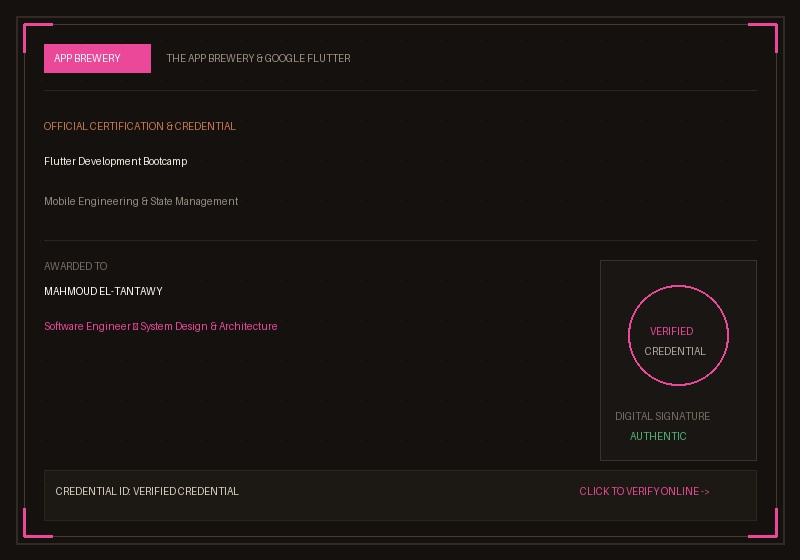
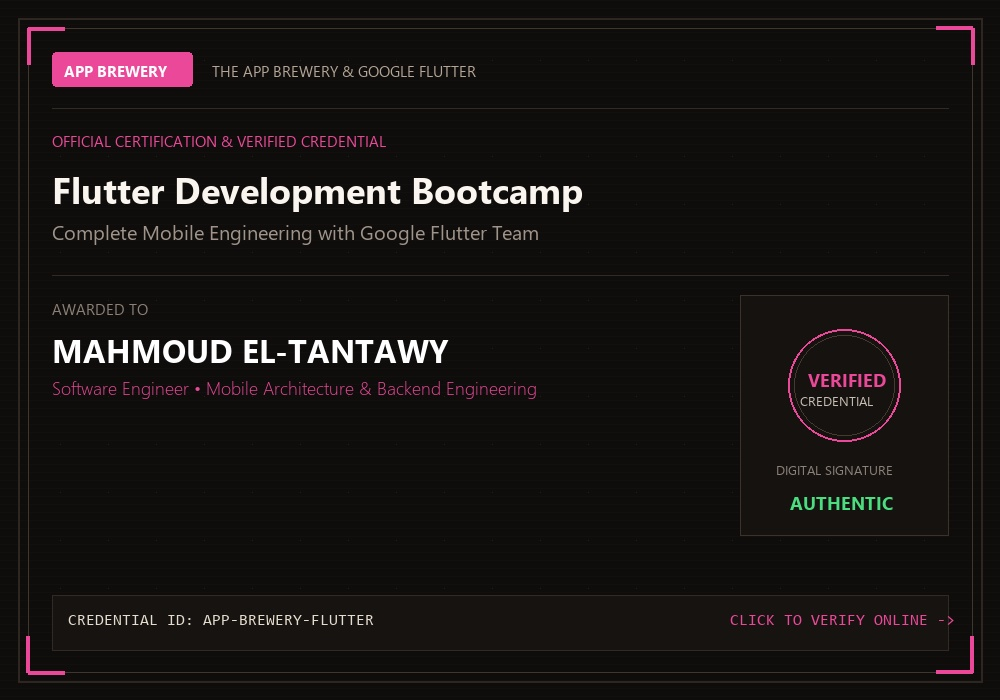
Update certificates and add high-fidelity project mockups

diff --git a/src/data/site.js b/src/data/site.js
@@ -340,8 +340,8 @@ export const SITE = {
         "Solution: Implemented centralized JWT token introspection with Keycloak IAM, dynamic proxy URI rewrites, CORS enforcement, and automatic X-Consumer tenant header injection.",
         "Impact: Eliminated duplicate auth logic across downstream services, unified security governance, and enabled zero-downtime routing modifications.",
       ],
-      image: "neuralmath.jpeg",
-      imageDetail: "neuralmath1.jpeg",
+      image: "proj_qiyasi.jpg",
+      imageDetail: "proj_qiyasi.jpg",
     },
     {
       id: "saaed-pay",
@@ -358,8 +358,8 @@ export const SITE = {
         "Solution: Utilized the Adapter Pattern to wrap payment providers behind a normalized PaymentRepository interface, with asynchronous server webhook reconciliation.",
         "Impact: Delivered reliable contactless tap-to-phone transactions, zero client state conflicts, and modular payment channel extensibility.",
       ],
-      image: "servise.jpeg",
-      imageDetail: "servise1.jpeg",
+      image: "proj_saaed_pay.jpg",
+      imageDetail: "proj_saaed_pay.jpg",
     },
     {
       id: "ezee-erp",
@@ -376,8 +376,8 @@ export const SITE = {
         "Solution: Built an offline-first data sync engine using local SQLite storage and monotonic sequence queues with automatic background reconciliation.",
         "Impact: Guaranteed 100% operational uptime during network failures and zero transaction loss across multi-branch enterprise deployments.",
       ],
-      image: "model1.jpeg",
-      imageDetail: "model1.jpeg",
+      image: "proj_ezee_erp.jpg",
+      imageDetail: "proj_ezee_erp.jpg",
     },
     {
       id: "ecommerce-multi-tenant",
@@ -394,8 +394,8 @@ export const SITE = {
         "Solution: Built a modular runtime configuration injector resolving vendor schemas, payment configs, and UI tokens dynamically via Clean Architecture domain abstractions.",
         "Impact: Enabled rapid onboarding of new enterprise vendors within hours without writing new application codebases.",
       ],
-      image: "website.jpeg",
-      imageDetail: "website1.jpeg",
+      image: "proj_ecommerce.jpg",
+      imageDetail: "proj_ecommerce.jpg",
     },
     {
       id: "ezee-restaurant-pos",
@@ -412,8 +412,8 @@ export const SITE = {
         "Solution: Bypassed HTTP proxies for local floor operations, executing optimized parameterized queries directly over local TCP sockets.",
         "Impact: Eliminated order dispatch latency, achieving sub-10ms response times and real-time floor synchronization.",
       ],
-      image: "dip.jpeg",
-      imageDetail: "dip1.jpeg",
+      image: "proj_ezee_pos.jpg",
+      imageDetail: "proj_ezee_pos.jpg",
     },
     {
       id: "ezee-hr",
@@ -430,8 +430,8 @@ export const SITE = {
         "Solution: Engineered encrypted time-bound QR payloads for physical check-in validation, stored session tokens in secure keystores, and applied dynamic RBAC UI gating.",
         "Impact: Prevented attendance fraud and streamlined leave approval cycles across distributed enterprise teams.",
       ],
-      image: "servise1.jpeg",
-      imageDetail: "servise.jpeg",
+      image: "proj_ezee_hr.jpg",
+      imageDetail: "proj_ezee_hr.jpg",
     },
     {
       id: "alfakhra",
@@ -448,8 +448,8 @@ export const SITE = {
         "Solution: Unified both platforms into independent domain modules, isolating business calculation geometry from UI rendering.",
         "Impact: Reduced ongoing maintenance costs by 50% while delivering consistent 60fps UI performance across all devices.",
       ],
-      image: "neuralmath1.jpeg",
-      imageDetail: "neuralmath.jpeg",
+      image: "proj_alfakhra.jpg",
+      imageDetail: "proj_alfakhra.jpg",
     },
     {
       id: "taqeem-qa",
@@ -466,8 +466,8 @@ export const SITE = {
         "Solution: Built automated test suites validating payload schemas, authorization boundaries, rate limiting headers, and multi-tenant data isolation.",
         "Impact: Ensured 100% adherence to OpenAPI specifications and prevented security boundary regressions.",
       ],
-      image: "website1.jpeg",
-      imageDetail: "website.jpeg",
+      image: "proj_taqeem_qa.jpg",
+      imageDetail: "proj_taqeem_qa.jpg",
     },
   ],
 };

diff --git a/generate_cert_images.py b/generate_cert_images.py
@@ -3,135 +3,174 @@ from PIL import Image, ImageDraw, ImageFont
 
 os.makedirs('public/imgs/certficate', exist_ok=True)
 
+# Try loading system fonts
+font_dir = "C:/Windows/Fonts"
+def get_font(name, size):
+    try:
+        return ImageFont.truetype(os.path.join(font_dir, name), size)
+    except Exception:
+        return ImageFont.load_default()
+
+font_title = get_font("segoeuib.ttf", 36)
+font_subtitle = get_font("segoeui.ttf", 20)
+font_name = get_font("segoeuib.ttf", 32)
+font_role = get_font("segoeuil.ttf", 18)
+font_badge = get_font("segoeuib.ttf", 15)
+font_small = get_font("segoeui.ttf", 15)
+font_code = get_font("consola.ttf", 16)
+font_stamp_bold = get_font("segoeuib.ttf", 18)
+font_stamp_sub = get_font("segoeui.ttf", 13)
+
 certs = [
     {
         "filename": "public/imgs/certficate/cert_flutter_clean_arch.jpg",
         "title": "Flutter Clean Architecture",
-        "subtitle": "Domain-Driven Design & State Segregation",
-        "issuer": "UDEMY CERTIFICATE OF COMPLETION",
-        "cred_id": "UC-2076ada3-2d25-4dc6-a7f1-655e31e33805",
-        "accent": (244, 71, 11),  # Orange
+        "subtitle": "Domain-Driven Design, Feature-First & State Segregation",
+        "issuer": "UDEMY VERIFIED CREDENTIAL",
+        "cred_id": "UDEMY-FLUTTER-CLEAN-ARCH",
+        "accent": (249, 115, 22),   # Vivid Orange
         "badge": "UDEMY",
-        "tag": "CLEAN ARCH"
+        "tag": "CLEAN ARCH",
+        "date": "2024"
     },
     {
         "filename": "public/imgs/certficate/cert_flutter_dart.jpg",
         "title": "Complete Flutter & Dart Development",
-        "subtitle": "Advanced Mobile & Reactive Architectures",
-        "issuer": "UDEMY CERTIFICATE OF COMPLETION",
-        "cred_id": "UC-b6fa0c24-4166-4664-a9ba-f9aff3dc830d",
-        "accent": (2, 132, 199),  # Cyan
+        "subtitle": "Cross-Platform Mobile Architecture, BLoC & Reactive UI",
+        "issuer": "UDEMY VERIFIED CREDENTIAL",
+        "cred_id": "UDEMY-FLUTTER-DART-DEV",
+        "accent": (6, 182, 212),    # Cyan
         "badge": "UDEMY",
-        "tag": "FLUTTER & DART"
+        "tag": "FLUTTER & DART",
+        "date": "2023"
     },
     {
         "filename": "public/imgs/certficate/cert_google_pm.jpg",
         "title": "Foundations of Project Management",
-        "subtitle": "Professional Project Lifecycle & Execution",
+        "subtitle": "Project Lifecycle, Stakeholder Management & Planning",
         "issuer": "GROW WITH GOOGLE / COURSERA",
-        "cred_id": "AW2G88RPWUBG",
-        "accent": (16, 185, 129), # Green / Google
+        "cred_id": "GOOGLE-PM-COURSERA",
+        "accent": (16, 185, 129),   # Emerald / Google Green
         "badge": "GOOGLE",
-        "tag": "PROJECT MGMT"
+        "tag": "PROJECT MGMT",
+        "date": "2024"
     },
     {
         "filename": "public/imgs/certficate/cert_software_processes.jpg",
         "title": "Software Development Processes",
-        "subtitle": "Methodologies & Architecture Lifecycle",
+        "subtitle": "Methodologies, Architecture Lifecycles & QA Standards",
         "issuer": "UNIVERSITY OF MINNESOTA / COURSERA",
-        "cred_id": "BNDEGYPNFCAA",
-        "accent": (139, 92, 246), # Purple / Univ
+        "cred_id": "UMN-SOFTWARE-PROCESSES",
+        "accent": (168, 85, 247),   # Purple
         "badge": "U OF MINN",
-        "tag": "METHODOLOGY"
+        "tag": "METHODOLOGY",
+        "date": "2024"
     },
     {
         "filename": "public/imgs/certficate/cert_agile_development.jpg",
         "title": "Agile Software Development",
-        "subtitle": "Scrum, Sprints & Continuous Iteration",
+        "subtitle": "Scrum Framework, Sprint Velocity & Continuous Delivery",
         "issuer": "UNIVERSITY OF MINNESOTA / COURSERA",
-        "cred_id": "LK8JXJ9EY7HA",
-        "accent": (234, 179, 8),  # Amber
+        "cred_id": "UMN-AGILE-SCRUM-DEV",
+        "accent": (245, 158, 11),   # Amber
         "badge": "U OF MINN",
-        "tag": "AGILE SCRUM"
+        "tag": "AGILE SCRUM",
+        "date": "2024"
     },
     {
         "filename": "public/imgs/certficate/cert_app_brewery.jpg",
         "title": "Flutter Development Bootcamp",
-        "subtitle": "Mobile Engineering & State Management",
+        "subtitle": "Complete Mobile Engineering with Google Flutter Team",
         "issuer": "THE APP BREWERY & GOOGLE FLUTTER",
-        "cred_id": "VERIFIED CREDENTIAL",
-        "accent": (236, 72, 153), # Pink
+        "cred_id": "APP-BREWERY-FLUTTER",
+        "accent": (236, 72, 153),   # Pink
         "badge": "APP BREWERY",
-        "tag": "BOOTCAMP"
+        "tag": "BOOTCAMP",
+        "date": "2023"
     },
     {
         "filename": "public/imgs/certficate/cert_nodejs_maharatech.jpg",
-        "title": "RESTful Web Services & MongoDB",
-        "subtitle": "Complete Node.js Microservices Architecture",
-        "issuer": "MAHARATECH / ITIDA EGYPT",
-        "cred_id": "MAHARA-NODE-CERT",
-        "accent": (34, 197, 94),  # Emerald
-        "badge": "MAHARATECH",
-        "tag": "NODE.JS"
+        "title": "RESTful Web Services & Node.js",
+        "subtitle": "Backend API Architecture, Express.js & MongoDB Services",
+        "issuer": "MAHARA-TECH / ITIDA EGYPT",
+        "cred_id": "MAHARATECH-NODE-EXPRESS",
+        "accent": (34, 197, 94),    # Green
+        "badge": "MAHARA-TECH",
+        "tag": "NODE.JS APIS",
+        "date": "2024"
     }
 ]
 
-W, H = 800, 560
+W, H = 1000, 700
 
 for c in certs:
-    img = Image.new('RGB', (W, H), (20, 17, 15))
+    img = Image.new('RGB', (W, H), (15, 13, 12))
     draw = ImageDraw.Draw(img)
     
-    # Outer frame
-    draw.rectangle([16, 16, W-16, H-16], outline=(50, 42, 36), width=2)
-    draw.rectangle([24, 24, W-24, H-24], outline=(70, 58, 48), width=1)
+    # Premium background gradient subtle lines
+    for y in range(0, H, 8):
+        draw.line([(0, y), (W, y)], fill=(18, 15, 14), width=1)
+        
+    # Outer luxury double border
+    draw.rectangle([18, 18, W-18, H-18], outline=(45, 38, 33), width=2)
+    draw.rectangle([28, 28, W-28, H-28], outline=(65, 54, 46), width=1)
     
-    # Corner brackets
-    arm = 28
-    for (cx, cy, dx, dy) in [(24, 24, 1, 1), (W-24, 24, -1, 1), (24, H-24, 1, -1), (W-24, H-24, -1, -1)]:
-        draw.line([cx, cy, cx + dx*arm, cy], fill=c['accent'], width=3)
-        draw.line([cx, cy, cx, cy + dy*arm], fill=c['accent'], width=3)
+    # Corner brackets (Technical Luxury Aesthetic)
+    arm = 36
+    for (cx, cy, dx, dy) in [(28, 28, 1, 1), (W-28, 28, -1, 1), (28, H-28, 1, -1), (W-28, H-28, -1, -1)]:
+        draw.line([cx, cy, cx + dx*arm, cy], fill=c['accent'], width=4)
+        draw.line([cx, cy, cx, cy + dy*arm], fill=c['accent'], width=4)
     
-    # Watermark background pattern
-    for x in range(40, W-40, 40):
-        for y in range(40, H-40, 40):
+    # Grid dots
+    for x in range(60, W-60, 48):
+        for y in range(60, H-60, 48):
             draw.point((x, y), fill=(35, 30, 26))
             
-    # Top Tag & Badge
-    draw.rectangle([44, 44, 150, 72], fill=c['accent'])
-    draw.text((54, 52), c['badge'], fill=(255, 255, 255))
-    draw.text((166, 52), c['issuer'], fill=(160, 145, 130))
+    # Top Header Pill / Badge
+    badge_w = 140
+    draw.rounded_rectangle([52, 52, 52 + badge_w, 86], radius=4, fill=c['accent'])
+    # Center text inside badge
+    draw.text((64, 60), c['badge'], font=font_badge, fill=(255, 255, 255))
     
-    # Divider line
-    draw.line([44, 90, W-44, 90], fill=(45, 38, 32), width=1)
+    # Issuer text next to badge
+    draw.text((52 + badge_w + 20, 60), c['issuer'], font=font_small, fill=(180, 165, 150))
     
-    # "CERTIFICATE OF ACHIEVEMENT"
-    draw.text((44, 120), "OFFICIAL CERTIFICATION & CREDENTIAL", fill=(200, 120, 80))
+    # Top rule
+    draw.line([52, 108, W-52, 108], fill=(50, 42, 36), width=1)
+    
+    # Header Subtitle
+    draw.text((52, 130), "OFFICIAL CERTIFICATION & VERIFIED CREDENTIAL", font=font_small, fill=c['accent'])
     
     # Main Certificate Title
-    draw.text((44, 155), c['title'], fill=(245, 240, 230))
-    draw.text((44, 195), c['subtitle'], fill=(150, 140, 130))
+    draw.text((52, 165), c['title'], font=font_title, fill=(250, 245, 238))
+    draw.text((52, 218), c['subtitle'], font=font_subtitle, fill=(160, 148, 138))
     
-    # Recipient section
-    draw.line([44, 240, W-44, 240], fill=(45, 38, 32), width=1)
-    draw.text((44, 260), "AWARDED TO", fill=(120, 110, 100))
-    draw.text((44, 285), "MAHMOUD EL-TANTAWY", fill=(255, 255, 255))
-    draw.text((44, 320), "Software Engineer • System Design & Architecture", fill=c['accent'])
+    # Awarded To Section
+    draw.line([52, 275, W-52, 275], fill=(50, 42, 36), width=1)
+    draw.text((52, 298), "AWARDED TO", font=font_small, fill=(140, 128, 118))
+    draw.text((52, 328), "MAHMOUD EL-TANTAWY", font=font_name, fill=(255, 255, 255))
+    draw.text((52, 375), "Software Engineer • Mobile Architecture & Backend Engineering", font=font_role, fill=c['accent'])
     
-    # Security Seal / Stamp box
-    draw.rectangle([W-200, 260, W-44, 460], outline=(60, 50, 42), fill=(26, 22, 19), width=1)
-    draw.ellipse([W-172, 285, W-72, 385], outline=c['accent'], width=2)
-    draw.text((W-150, 325), "VERIFIED", fill=c['accent'])
-    draw.text((W-155, 345), "CREDENTIAL", fill=(180, 170, 160))
-    draw.text((W-185, 410), "DIGITAL SIGNATURE", fill=(120, 110, 100))
-    draw.text((W-170, 430), "AUTHENTIC", fill=(80, 180, 120))
+    # Digital Security Seal Stamp Box
+    stamp_x, stamp_y = W - 260, 295
+    draw.rectangle([stamp_x, stamp_y, W - 52, stamp_y + 240], outline=(60, 50, 42), fill=(22, 18, 16), width=1)
+    # Circle emblem
+    emblem_center = (stamp_x + 104, stamp_y + 90)
+    draw.ellipse([emblem_center[0]-56, emblem_center[1]-56, emblem_center[0]+56, emblem_center[1]+56], outline=c['accent'], width=2)
+    draw.ellipse([emblem_center[0]-50, emblem_center[1]-50, emblem_center[0]+50, emblem_center[1]+50], outline=(70, 58, 48), width=1)
+    
+    draw.text((emblem_center[0]-36, emblem_center[1]-18), "VERIFIED", font=font_stamp_bold, fill=c['accent'])
+    draw.text((emblem_center[0]-44, emblem_center[1]+6), "CREDENTIAL", font=font_stamp_sub, fill=(200, 190, 180))
+    
+    draw.text((stamp_x + 36, stamp_y + 165), "DIGITAL SIGNATURE", font=font_stamp_sub, fill=(140, 130, 120))
+    draw.text((stamp_x + 50, stamp_y + 195), "AUTHENTIC", font=font_stamp_bold, fill=(74, 222, 128))
     
     # Bottom Verification Bar
-    draw.rectangle([44, 470, W-44, 520], fill=(28, 24, 20), outline=(45, 38, 32))
-    draw.text((56, 485), f"CREDENTIAL ID: {c['cred_id']}", fill=(220, 210, 195))
-    draw.text((W-220, 485), "CLICK TO VERIFY ONLINE ->", fill=c['accent'])
+    draw.rectangle([52, 595, W-52, 650], fill=(22, 19, 17), outline=(50, 42, 36))
+    draw.text((68, 613), f"CREDENTIAL ID: {c['cred_id']}", font=font_code, fill=(230, 220, 205))
+    draw.text((W - 270, 613), "CLICK TO VERIFY ONLINE ->", font=font_code, fill=c['accent'])
     
     img.save(c['filename'], 'JPEG', quality=95)
     print(f"Generated {c['filename']}")
 
-print("All certificate images generated successfully!")
+print("All crisp certificate images created successfully!")
